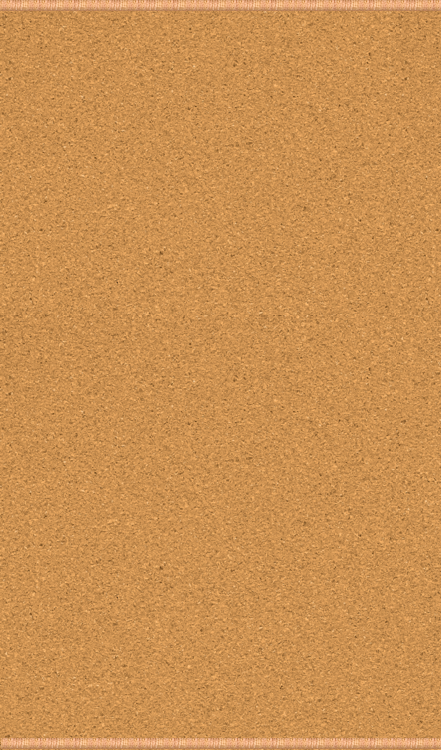
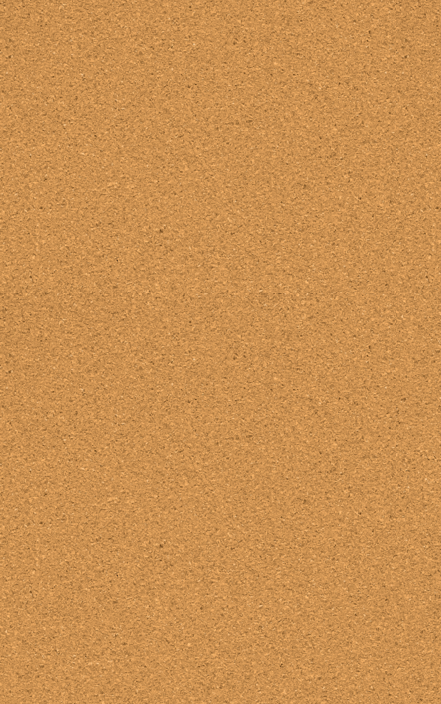
board overflow correction

Changed region(s): [[0.0, 0.5, 1.0, 1.0], [0.0, 0.0, 1.0, 0.4688]]

diff --git a/app/assets/javascripts/application.js b/app/assets/javascripts/application.js
@@ -105,7 +105,7 @@ $(document).ready(function(){
             sync_notices();
             $(".refresh_notices").hide();
     });
-    
+
 // delete images and comments
     $(document).on("click",".This_comment",function() {
             var id = $(this).attr("id");
@@ -144,6 +144,13 @@ $(document).ready(function(){
                         });
     });
 
+$("#public_button").click(function(){
+  $(".tabbg_first,.tabbg_last").css("height",$("#public_tab").height());
+ });
+
+$("#private_button").click(function(){
+  $(".tabbg_first,.tabbg_last").css("height",$("#private_tab").height());
+ });
 
 var user_id_notices=0,first="yes",marginTop=0,marginLeft=0,column=0;
 window.sync_notices = function()
@@ -168,8 +175,9 @@ window.sync_notices = function()
                       $.each(data.private_notice, function(index, element) {
                         just_text=load_notice(data.user_id,element,'private',t,'');
                       });
-
+                      $(".tabbg_first,.tabbg_last").css("height",$("#private_tab").height());
                       load_public_notices(data,t,"yes");
+                      $(".tabbg_first,.tabbg_last").css("height",$("#private_tab").height());
 
 
                     }
@@ -192,7 +200,7 @@ window.load_public_notices = function (data,t,from_sync)
     //empty the board public
   $("#board_public").empty();
 
-  var total_string = '<div class="row">';
+  var total_string = '<div class="row"><div class="board_border_top"></div>';
 
     user_id_notices=0;
     first="yes";
@@ -213,12 +221,12 @@ window.load_public_notices = function (data,t,from_sync)
           // alert((data.public_notice).length);
           height=(current_user_notices * 30)+200;
 
-          if(first=="yes") 
+          if(first=="yes")
             first="no";
           else
             total_string +='</ul></div>';
 
-          if(column%3==0) 
+          if(column%3==0)
             total_string +='</div><div class="row">';
 
           column =column+1
@@ -236,7 +244,9 @@ window.load_public_notices = function (data,t,from_sync)
     total_string +='</div>';
     }
   total_string += '</div>';
+
   $("#board_public").html(total_string);
+  $(".tabbg_first,.tabbg_last").css("height",$("#public_tab").height());
 }
 window.load_notice = function (userid,data,type,template,set_margin)
 {
@@ -251,11 +261,11 @@ window.load_notice = function (userid,data,type,template,set_margin)
       data.set_margin=set_margin;
       data.className = 'context-menu-note-' + type;
       data.z_index=i;
-      data.images_popup = "";  
+      data.images_popup = "";
       data.img_count="";
       data.hidden_class_img="hide";
 
-      data.comments_popup = "";  
+      data.comments_popup = "";
       data.comment_count="";
       data.hidden_class_comment="hide";
 
@@ -283,10 +293,15 @@ window.load_notice = function (userid,data,type,template,set_margin)
       }
 
       //render template
-      if(type=='private')
+      if(type=='private'){
         $("#board_"+ type +" ul").append(t({element:data}));
-      else
-        return t({element:data});
+        $(".tabbg_first,.tabbg_last").css("height",$("#private_tab").height());
+      }
+      else{
+         $(".tabbg_first,.tabbg_last").css("height",$("#public_tab").height());
+         return t({element:data});
+      }
+
       return "";
     }
 
@@ -305,7 +320,7 @@ function inverseColor(theString)
   return newColor;
 }
 var hexbase="0123456789ABCDEF";
-function DecToHex(number) 
+function DecToHex(number)
 {
   return hexbase.charAt((number>> 4)& 0xf)+ hexbase.charAt(number& 0xf);
 }

diff --git a/app/assets/stylesheets/sticky.css b/app/assets/stylesheets/sticky.css
@@ -183,7 +183,7 @@ overflow:auto;
   transform: scaleX(-1);
   filter: FlipH;
   -ms-filter: "FlipH";
-        
+
   width: 15px;
   right: 20px;
   top: 0px;
@@ -265,14 +265,14 @@ overflow:auto;
   border-radius: 15px;
 }
 .tabbg_first{
-min-height:750px;
+/*min-height:750px;*/
 width:1%;
 display: block;
 float:left;
-background: url(bg_tabs/border.png) no-repeat;
+background: url(bg_tabs/border.png) repeat-y; /*no-repeat;*/
 }
 .tabbg_middle{
-min-height:750px;
+/*min-height:750px;*/
 float:left;
 width:98%;
 background: url(bg_tabs/half.png);
@@ -280,8 +280,26 @@ background: url(bg_tabs/half.png);
 }
 .tabbg_last{
   width:1%;
-min-height:750px;
+/*min-height:750px;*/
 float:left;
-background: url(bg_tabs/border.png) no-repeat;
+background: url(bg_tabs/border.png) repeat-y; /*no-repeat;*/
 
+}
+
+.board_border_top{
+background: url(bg_tabs/border_top.png) repeat-x; /*no-repeat;*/
+height: 9px;
+margin-top: -21px;
+/*width:98%;*/
+}
+
+.board_border_bottom{
+background: url(bg_tabs/border_top.png) repeat-x; /*no-repeat;*/
+height: 10px;
+margin-top: 56px;
+/*width:98%;*/
+}
+
+#for_public_tab{
+  margin-top:197px;
 }
